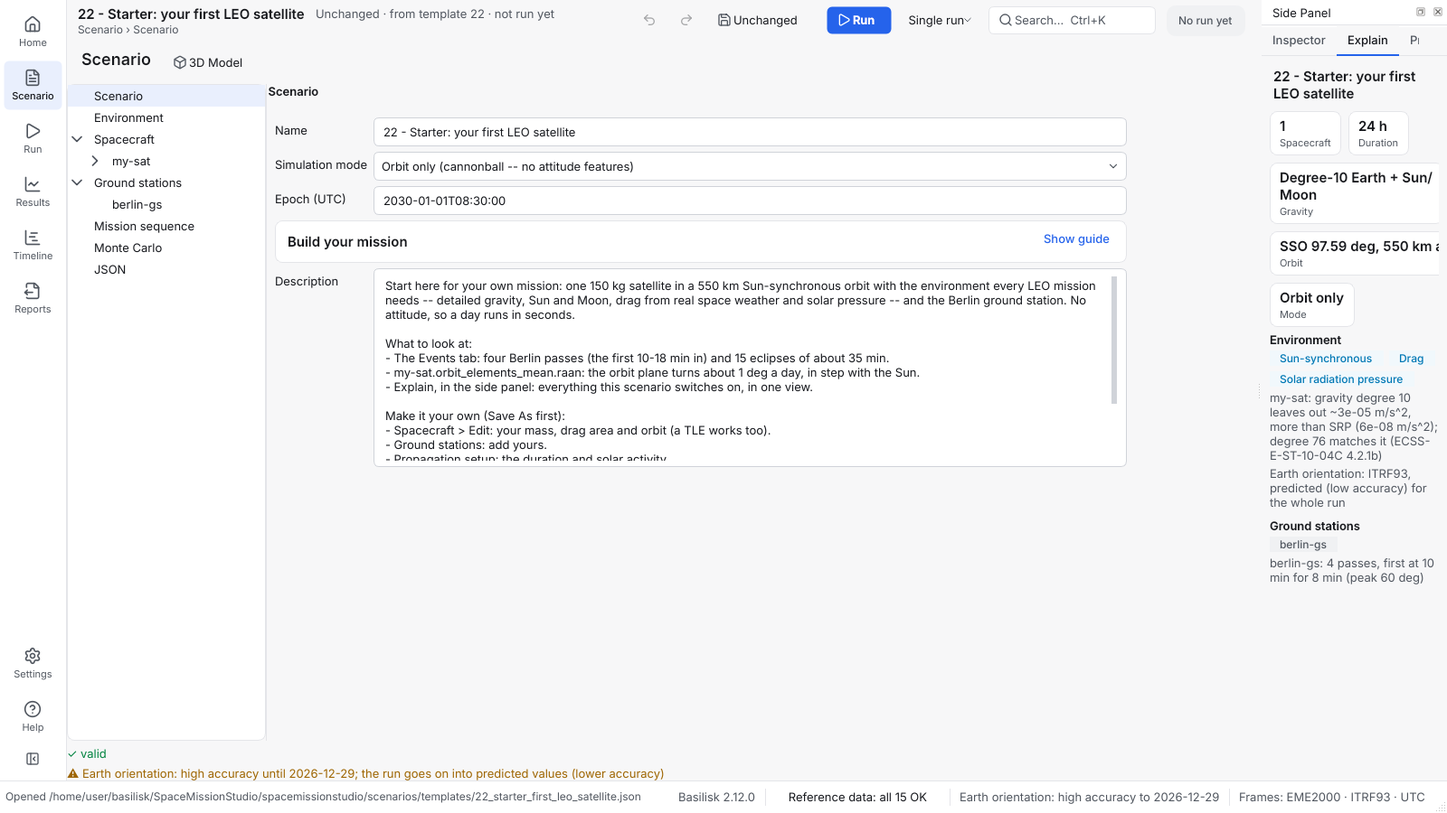
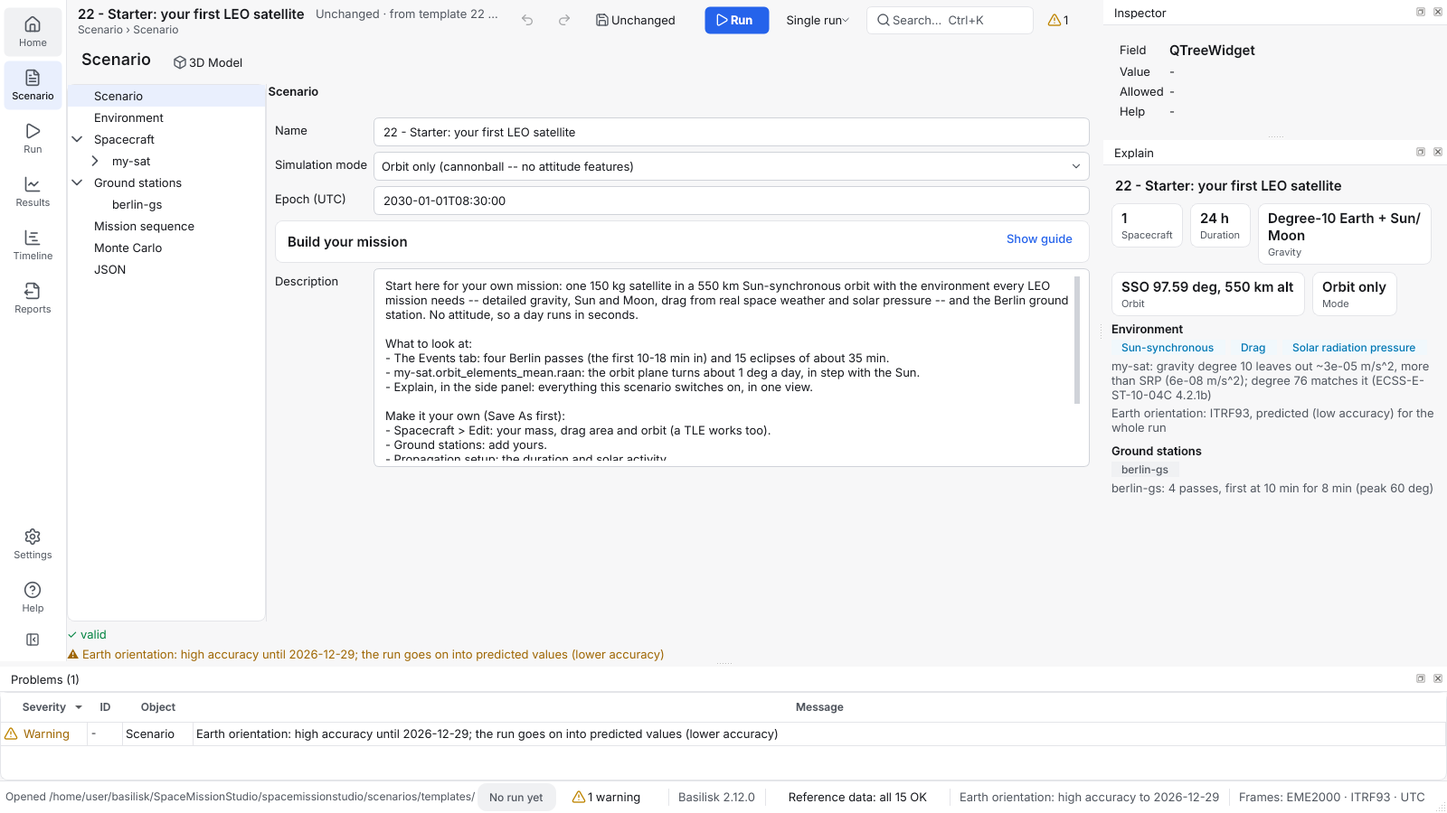
M2b: status bar fits a run at 1280 px; wheel test walks the areas
The run job asks the status bar for a new layout when its text grows,
the chip hides while the job shows, and the Earth orientation and frames
entries elide with their full text as the tooltip. The inspector's
default height is four rows. The main window's wheel test walks every
rail area, as the input-border test does. Docs screenshots recaptured.

Claude-Session: https://claude.ai/code/session_01R2b8C2dRToAzRYMx3CVWVd

diff --git a/SpaceMissionStudio/spacemissionstudio/gui/app_shell.py b/SpaceMissionStudio/spacemissionstudio/gui/app_shell.py
@@ -46,8 +46,8 @@ from typing import List, Optional
 
 from PySide6.QtCore import QElapsedTimer, QSize, Qt, QTimer, Signal
 from PySide6.QtGui import QAction, QPainter
-from PySide6.QtWidgets import (QFrame, QHBoxLayout, QLabel, QProgressBar, QPushButton, QToolButton, QVBoxLayout,
-                               QWidget)
+from PySide6.QtWidgets import (QFrame, QHBoxLayout, QLabel, QProgressBar, QPushButton, QSizePolicy, QToolButton,
+                               QVBoxLayout, QWidget)
 
 from .theme import icon
 from .theme.icons import keep_icon
@@ -117,16 +117,19 @@ class RunProgressStrip(QFrame):
     def __init__(self, parent: Optional[QWidget] = None) -> None:
         super().__init__(parent)
         self.setObjectName("runProgressStrip")
+        # Its own width in the status bar: the entries that elide give way.
+        self.setSizePolicy(QSizePolicy.Policy.Fixed, QSizePolicy.Policy.Preferred)
         layout = QHBoxLayout(self)
         layout.setContentsMargins(4, 0, 4, 0)  # [px]
         layout.setSpacing(8)  # [px]
         # In the status bar beside its other items: the phase gives way first.
         self.phase_label = ElidedLabel()
         self.phase_label.setObjectName("runPhase")
+        self.phase_label.setMinimumWidth(80)  # [px] never squeezed out of sight
         self.phase_label.setMaximumWidth(320)  # [px]
         self.bar = QProgressBar()
         self.bar.setTextVisible(False)  # the percentage is in the time label and the status chip
-        self.bar.setFixedWidth(120)  # [px]
+        self.bar.setFixedWidth(96)  # [px]
         self.time_label = QLabel()
         self.time_label.setObjectName("runTime")
         self.cancel_button = QPushButton("Cancel (Esc)")
@@ -140,6 +143,7 @@ class RunProgressStrip(QFrame):
         self._timer = QTimer(self)
         self._timer.setInterval(500)  # [ms]
         self._timer.timeout.connect(self.refresh_time)
+        self._fitted_width = 0
         self.hide()
 
     def start(self, phase: str, cancellable: bool = True, cancel_note: str = "") -> None:
@@ -154,9 +158,11 @@ class RunProgressStrip(QFrame):
         self.refresh_time()
         self._timer.start()
         self.show()
+        self._fit()
 
     def set_phase(self, text: str) -> None:
         self.phase_label.setText(text)
+        self._fit()
 
     def set_fraction(self, fraction: float) -> None:
         fraction = min(max(float(fraction), 0.0), 1.0)
@@ -170,6 +176,7 @@ class RunProgressStrip(QFrame):
         """Cancel was asked for: it takes effect at the next checkpoint."""
         self.cancel_button.setEnabled(False)
         self.cancel_button.setText("Cancelling...")
+        self._fit()
 
     def finish(self) -> None:
         self._timer.stop()
@@ -193,6 +200,18 @@ class RunProgressStrip(QFrame):
         if remaining is not None and remaining >= 1.0:  # [s] under a second, "about 0:00 left" says nothing
             parts.append(f"about {clock_text(remaining)} left")
         self.time_label.setText(" · ".join(parts))
+        self._fit()
+
+    def _fit(self) -> None:
+        """Take the width the text needs now: the status bar lays its
+        entries out again only when asked."""
+        width = self.sizeHint().width()
+        if width != self._fitted_width and self.parentWidget() is not None:
+            self._fitted_width = width
+            self.updateGeometry()
+            layout = self.parentWidget().layout()
+            if layout is not None:
+                layout.invalidate()
 
 
 class TopBar(QWidget):
@@ -338,12 +357,14 @@ class StatusBarItems:
         self.data_button.setObjectName("statusDataButton")
         self.data_button.setAutoRaise(True)
         self.data_button.setToolTip("Reference data: open the Reference data dialog")
-        self.earth_orientation_label = QLabel(parent)
+        # The two longest entries give way while a run's job shares the bar;
+        # their tooltips have all of it.
+        self.earth_orientation_label = ElidedLabel(parent)
         self.earth_orientation_label.setObjectName("statusItem")
-        self.frames_label = QLabel(parent)
+        self.earth_orientation_label.setMinimumWidth(120)  # [px]
+        self.frames_label = ElidedLabel(parent)
         self.frames_label.setObjectName("statusItem")
-        self.frames_label.setToolTip("Inertial frame of orbits and results; Earth-fixed frame of ground "
-                                     "stations; the time system of every date shown")
+        self.frames_label.setMinimumWidth(120)  # [px]
         items = (self.problems_button, self.basilisk_label, self.data_button, self.earth_orientation_label,
                  self.frames_label)
         # A thin rule between entries: side by side they read as one line.
@@ -396,6 +417,11 @@ class StatusBarItems:
             self.earth_orientation_label.setText("Earth orientation: installed")
         earth_fixed = earth_orientation.EARTH_FIXED_FRAME if kernels else earth_orientation.FALLBACK_EARTH_FRAME
         self.frames_label.setText(f"Frames: EME2000 · {earth_fixed} · UTC")
+        self.frames_label.setToolTip(f"{self.frames_label.text()}\n{_FRAMES_TIP}")
+
+
+_FRAMES_TIP = ("Inertial frame of orbits and results; Earth-fixed frame of ground stations; the time system "
+               "of every date shown")
 
 
 def _problems_button(name: str, parent: Optional[QWidget] = None) -> QToolButton:

diff --git a/SpaceMissionStudio/tests/gui/test_panels.py b/SpaceMissionStudio/tests/gui/test_panels.py
@@ -171,11 +171,36 @@ def test_a_run_is_a_job_in_the_status_bar_with_progress_and_cancel(window):
     assert progress.isVisibleTo(window) and progress.bar.value() == 43
     assert progress.phase_label.text() == "Propagating: day 0.4 of 1"
     assert window.run_chip.text() == "Running 43 %"
+    assert not window.run_chip.isVisibleTo(window)  # the job says the same, with its bar
     assert progress.cancel_button.isVisibleTo(window)
     progress.cancel_button.click()
     assert cancelled == [True]
     window._stop_busy("Done", "done", "Done")
     assert not progress.isVisibleTo(window) and window.run_chip.state == "done"
+    assert window.run_chip.isVisibleTo(window)
+
+
+def test_the_status_bar_job_fits_a_1280_px_window(window, qapp):
+    """At 1280 px, with the longest time text, the job's time and Cancel get
+    all the width they need: the long entries elide instead (their tooltips
+    keep the whole text). The status bar lays the job out again as its text
+    grows."""
+    window.resize(1280, 720)  # [px]
+    window.show()
+    window._start_busy("Running", determinate=True)
+    progress = window.run_progress
+    progress.set_phase("Propagating: day 0.4 of 1")
+    progress.set_fraction(0.8)
+    progress.elapsed_s = lambda: 40.0  # [s]
+    progress.refresh_time()
+    qapp.processEvents()
+    assert progress.time_label.text() == "80 % · 0:40 elapsed · about 0:09 left"
+    assert progress.time_label.width() >= progress.time_label.sizeHint().width()
+    assert progress.cancel_button.width() >= progress.cancel_button.sizeHint().width()
+    assert progress.phase_label.width() >= 80  # [px]
+    items = window.status_items
+    assert items.frames_label.toolTip().startswith(items.frames_label.text())
+    window._stop_busy("Done")
 
 
 def test_the_status_bar_job_does_not_widen_the_window(window):

diff --git a/SpaceMissionStudio/tests/gui/test_wheel_in_dialogs.py b/SpaceMissionStudio/tests/gui/test_wheel_in_dialogs.py
@@ -101,12 +101,24 @@ def test_mouse_wheel_changes_nothing(qtbot, qapp, factory):
     dialog.show()
     qtbot.waitExposed(dialog)
     changed, count = _changed_by_wheel(dialog, qapp)
-    for tabs in _expand_everything(dialog, qapp):
-        for index in range(tabs.count()):
-            tabs.setCurrentIndex(index)
+    tab_widgets = _expand_everything(dialog, qapp)
+    # The main window: every area of its rail, as its main tabs were walked.
+    areas = [area.id for area in dialog.shell.page_areas()] if hasattr(dialog, "shell") else [None]
+    for area in areas:
+        if area is not None:
+            dialog.shell.show_area(area)
             qapp.processEvents()
             more, more_count = _changed_by_wheel(dialog, qapp)
-            changed += [f"[{tabs.tabText(index)}] {item}" for item in more]
+            changed += [f"[{area}] {item}" for item in more]
             count += more_count
+        for tabs in tab_widgets:
+            if not shiboken6.isValid(tabs) or not tabs.isVisible():
+                continue
+            for index in range(tabs.count()):
+                tabs.setCurrentIndex(index)
+                qapp.processEvents()
+                more, more_count = _changed_by_wheel(dialog, qapp)
+                changed += [f"[{tabs.tabText(index)}] {item}" for item in more]
+                count += more_count
     assert count > 0, "nothing to wheel over -- the check would pass vacuously"
     assert not changed, "the wheel changed:\n" + "\n".join(changed)

diff --git a/SpaceMissionStudio/spacemissionstudio/gui/main_window.py b/SpaceMissionStudio/spacemissionstudio/gui/main_window.py
@@ -383,7 +383,7 @@ class MainWindow(QMainWindow):
         self._build_actions()
         self._build_areas()
         self.resizeDocks([self.side_dock], [380], Qt.Orientation.Horizontal)  # [px] room for Explain's tiles
-        self.resizeDocks([self.side_dock, self.explain_dock], [180, 460], Qt.Orientation.Vertical)  # [px]
+        self.resizeDocks([self.side_dock, self.explain_dock], [130, 610], Qt.Orientation.Vertical)  # [px] four rows
         self.resizeDocks([self.problems_dock], [140], Qt.Orientation.Vertical)  # [px] about four rows
         self._default_layout = self.saveState(_LAYOUT_VERSION)
         self._restore_layout()
@@ -1575,6 +1575,7 @@ class MainWindow(QMainWindow):
         self._busy_timer.start()
         self._run_started_s = time.monotonic()
         self.run_chip.set_state("running", "Running")
+        self.run_chip.hide()  # the job beside it says the same, with its bar
         self.statusBar().showMessage(message)
 
     def _stop_busy(self, message: str, chip_state: str = "idle", chip_text: str = "Ready",
@@ -1594,6 +1595,7 @@ class MainWindow(QMainWindow):
                                           f"{time.strftime('%H:%M')}, {chip_state}, {_duration_text(seconds)}")
             self._run_started_s = None
         self.run_chip.set_state(chip_state, chip_text)
+        self.run_chip.show()
         self._set_running(False)
         self.abort_action.setEnabled(False)
         self._busy_timer.stop()

diff --git a/SpaceMissionStudio/compliance/docs/SDD_components.md b/SpaceMissionStudio/compliance/docs/SDD_components.md
@@ -77,7 +77,7 @@ Identifiers are module paths: `engine/service` is `spacemissionstudio/engine/ser
 | `fsw_export/traceability` | Where each exported value comes from | SRS-F-18 | `Source`, `module_field_source` | - | - | 95 |
 | `gui/actions` | The main window's action registry, every command in one place (UI overhaul plan §5.1). | - | `Command`, `tooltip_text`, `ActionRegistry` | - | PySide6 | 169 |
 | `gui/app` | GUI entry point. | SRS-F-15 | `main` | gui/icons, gui/main_window, gui/theme, logging_setup | PySide6 | 77 |
-| `gui/app_shell` | The app shell's always-visible state (UX/UI Standard, "State is always visible" and "Target layout"; docs/ux-audit.md U-04, U-06, U-07) | - | `StatusChip`, `clock_text`, `ElidedLabel`, `RunProgressStrip`, `TopBar`, `source_of`, `StatusBarItems` | dependencies, engine/earth_orientation, engine/reference_data, gui/theme, gui/theme/icons | PySide6 | 438 |
+| `gui/app_shell` | The app shell's always-visible state (UX/UI Standard, "State is always visible" and "Target layout"; docs/ux-audit.md U-04, U-06, U-07) | - | `StatusChip`, `clock_text`, `ElidedLabel`, `RunProgressStrip`, `TopBar`, `source_of`, `StatusBarItems` | dependencies, engine/earth_orientation, engine/reference_data, gui/theme, gui/theme/icons | PySide6 | 464 |
 | `gui/autosave` | Autosave / crash-recovery for in-progress scenario edits. | SRS-RE-02 | `RecoveryInfo`, `write_recovery_file`, `clear_recovery_file`, `read_recovery_file` | schema/migrations, schema/scenario | - | 174 |
 | `gui/badges` | Status badges | - | `set_badge` | gui/theme | PySide6 | 45 |
 | `gui/budget_widget` | Delta-V and propellant budget in the manner of ESA's AD10 guideline (EOP-FM/2024-07-177; see engine/propellant_budget.py) | SRS-F-15 | `BudgetInputsGroup`, `BudgetWidget` | engine/propellant_budget, gui/theme, gui/widgets, output_provenance, schema/scenario | PySide6 | 591 |
@@ -99,7 +99,7 @@ Identifiers are module paths: `engine/service` is `spacemissionstudio/engine/ser
 | `gui/json_view` | The scenario as JSON, editable (docs/ux-audit.md U-16) | - | `ScenarioJsonView` | gui/feedback, gui/theme, schema/scenario | PySide6 | 149 |
 | `gui/lifetime_widget` | The "End of life" tab | SRS-F-15 | `AltitudeChart`, `LifetimeWidget` | engine/lifetime, gui/badges, gui/scenario_explainer_widget, gui/theme, gui/widgets | PySide6 | 381 |
 | `gui/load_scenario_widget` | LoadScenarioWidget | SRS-O-02, SRS-H-02 | `description_html`, `LoadScenarioWidget` | gui/feedback, gui/mission_guide, gui/template_wizard, gui/theme, gui/theme/richtext | PySide6 | 354 |
-| `gui/main_window` | MainWindow | SRS-F-15, SRS-O-02, SRS-S-03 | `events_summary`, `MainWindow` | engine/events, engine/monte_carlo_results, engine/run_store, engine/series_names, engine/vizard, gui/actions, gui/app_shell, gui/autosave, gui/budget_widget, gui/command_palette, gui/compare_widget, gui/data_panel_widget, gui/event_timeline_widget, gui/feedback, gui/fsw_workbench_widget, gui/help_dialog, gui/icons, gui/lifetime_widget, gui/load_scenario_widget, gui/mission_dashboard_widget, gui/mission_guide, gui/mission_output_widget, gui/monte_carlo_results_widget, gui/problem_location, gui/results_widget, gui/run_history, gui/run_worker, gui/scenario_editor, gui/scenario_explainer_widget, gui/settings_page, gui/shell, gui/startup_fetch_dialog, gui/theme, gui/theme/icons, gui/time_cursor, gui/undo_history, gui/vizard_dialog, gui/vizard_launcher, gui/widgets, gui/workspace_panels, logging_setup, output_provenance, schema/command, schema/scenario | PySide6 | 2358 |
+| `gui/main_window` | MainWindow | SRS-F-15, SRS-O-02, SRS-S-03 | `events_summary`, `MainWindow` | engine/events, engine/monte_carlo_results, engine/run_store, engine/series_names, engine/vizard, gui/actions, gui/app_shell, gui/autosave, gui/budget_widget, gui/command_palette, gui/compare_widget, gui/data_panel_widget, gui/event_timeline_widget, gui/feedback, gui/fsw_workbench_widget, gui/help_dialog, gui/icons, gui/lifetime_widget, gui/load_scenario_widget, gui/mission_dashboard_widget, gui/mission_guide, gui/mission_output_widget, gui/monte_carlo_results_widget, gui/problem_location, gui/results_widget, gui/run_history, gui/run_worker, gui/scenario_editor, gui/scenario_explainer_widget, gui/settings_page, gui/shell, gui/startup_fetch_dialog, gui/theme, gui/theme/icons, gui/time_cursor, gui/undo_history, gui/vizard_dialog, gui/vizard_launcher, gui/widgets, gui/workspace_panels, logging_setup, output_provenance, schema/command, schema/scenario | PySide6 | 2360 |
 | `gui/mission_dashboard_widget` | MissionDashboardWidget | SRS-F-15 | `MissionDashboardWidget` | engine/link_budget, engine/results, gui/badges, gui/theme, schema/scenario | PySide6, numpy | 462 |
 | `gui/mission_guide` | Starting a mission from scratch without feeling lost (the user's request of 2026-10-21 | - | `StartFromScratchCard`, `MissionGuide` | gui/theme | PySide6 | 220 |
 | `gui/mission_output_widget` | MissionOutputWidget | SRS-F-15 | `MissionOutputWidget` | engine/results, gui/feedback, gui/theme, gui/theme/items, output_provenance, plot_categories | PySide6, numpy | 386 |

diff --git a/SpaceMissionStudio/compliance/docs/SUITP_test_cases.md b/SpaceMissionStudio/compliance/docs/SUITP_test_cases.md
@@ -4,7 +4,7 @@ Generated by `compliance/tools/build_test_specs.py` from the test sources (read 
 
 Levels: *unit* runs without Basilisk or Qt; *integration* runs a Basilisk simulation or the Qt GUI (offscreen).
 
-**2380 test functions in 193 test designs** (1391 integration, 989 unit). 2380 have a docstring stating their purpose; 0 do not (their purpose is their name). 114 name the requirements they verify with a `requirement` marker; the others trace through the SRS validation matrix (SRS section 6).
+**2381 test functions in 193 test designs** (1392 integration, 989 unit). 2381 have a docstring stating their purpose; 0 do not (their purpose is their name). 114 name the requirements they verify with a `requirement` marker; the others trace through the SRS validation matrix (SRS section 6).
 
 ## Test designs
 
@@ -53,7 +53,7 @@ Levels: *unit* runs without Basilisk or Qt; *integration* runs a Basilisk simula
 | `tests/gui/test_orbit_switch.py` | Switching the orbit type (docs/ux-audit.md U-14): a segmented control; picking another type asks whether to convert the orbit (both sets shown) or use that page's own values, and Cancel keeps the orbit as it was. | 7 | integration | Qt (offscreen) |
 | `tests/gui/test_out_of_range.py` | A file's value outside a field's range is kept and said, never clamped silently; and a problem waiting in one form no longer hides the others. | 6 | integration | Qt (offscreen) |
 | `tests/gui/test_page_tree.py` | The tree of pages the Scenario Editor is built on (docs/ux-audit.md U-01): pages and groups, finding the page of any widget, problem counts, removal, and the edit watcher its live forms use. | 8 | integration | Qt (offscreen) |
-| `tests/gui/test_panels.py` | The panels of UI overhaul M2b: the Problems panel at the bottom (gui.workspace_panels), the run job in the status bar (gui.app_shell), the inspector on the right, the layout kept per project and a keyboard-only walk of t | 12 | integration | Qt (offscreen) |
+| `tests/gui/test_panels.py` | The panels of UI overhaul M2b: the Problems panel at the bottom (gui.workspace_panels), the run job in the status bar (gui.app_shell), the inspector on the right, the layout kept per project and a keyboard-only walk of t | 13 | integration | Qt (offscreen) |
 | `tests/gui/test_phasing_formation_dialog.py` | Tests for gui.phasing_formation_dialog.PhasingFormationDialog. | 15 | integration | Qt (offscreen) |
 | `tests/gui/test_plausibility_checks.py` | Plausibility checks while editing (UX/UI guidelines): a perigee below the surface, an inconsistent state, a run outside the installed data. | 5 | integration | Qt (offscreen) |
 | `tests/gui/test_plot_workspace.py` | The Results plot workspace (docs/ux-audit.md U-24 to U-30): the catalog, the grid with linked x axes, the readout, the orbit-number axis, event bands, the epoch subtitle, Export all and the layout kept per scenario. | 17 | integration | Qt (offscreen) |
@@ -863,6 +863,7 @@ Levels: *unit* runs without Basilisk or Qt; *integration* runs a Basilisk simula
 | `test_a_refused_run_opens_a_hidden_problems_panel` | Run on an invalid scenario shows the Problems panel, even when it was hidden, and goes to the field. | - | integration |
 | `test_enter_in_the_problems_table_goes_to_the_field` | Keyboard only: Ctrl+J into the panel, the arrow keys to a row, Enter to the field it is about. | - | integration |
 | `test_a_run_is_a_job_in_the_status_bar_with_progress_and_cancel` | While a run goes, the status bar shows its phase, progress, time and Cancel, and the chip its state; the job leaves when the run ends. | - | integration |
+| `test_the_status_bar_job_fits_a_1280_px_window` | At 1280 px, with the longest time text, the job's time and Cancel get all the width they need: the long entries elide instead (their tooltips keep the whole text). | - | integration |
 | `test_the_status_bar_job_does_not_widen_the_window` | A long phase ends in "..." rather than holding the window wider. | - | integration |
 | `test_the_inspector_and_explain_are_panels_on_the_right_without_tabs` | Inspector over Explain, each its own panel on the right; the Problems panel at the bottom. | - | integration |
 | `test_ctrl_i_shows_and_hides_the_inspector` | Ctrl+I, pressed in the window, hides the Inspector and shows it again. | - | integration |

diff --git a/SpaceMissionStudio/docs/ui/TEST_CHANGES.md b/SpaceMissionStudio/docs/ui/TEST_CHANGES.md
@@ -128,7 +128,7 @@ below reaches the same behaviour there.
 
 | Test | Before | Now | Assertions kept |
 |---|---|---|---|
-| `test_field_errors.py::_activate_error` (5 tests use it) | `problems.list.itemActivated.emit(problems.list.item(row))` | `problems.table.activated.emit(problems.index_of(row))` | The error's row opens its field |
+| `test_field_errors.py::_activate_error` (4 tests use it) | `problems.list.itemActivated.emit(problems.list.item(row))` | `problems.table.activated.emit(problems.index_of(row))` | The error's row opens its field |
 | `test_field_errors.py::test_an_invalid_epoch_is_marked_at_its_field` | `problems_widget.list.item(0).text()` | `problems_widget.row_text(0)` ("Error: " and the message, as the list item read) | The first row is the epoch's error |
 | `test_json_view.py::test_problems_open_the_json_page`, `test_mission_sequence_list.py::test_problems_open_the_step` | `problems.list.itemActivated.emit(problems.list.item(row))` | `problems.table.activated.emit(problems.index_of(row))` | The row opens the JSON page; the step |
 | `test_workspace.py::test_problems_list_the_validation_error_and_warnings` | The side tab's text; `list.count()`, `list.item(0).text()`, `list.itemActivated` | The dock's title; `proxy.rowCount()`, `row_text(0)`, `table.activated` | "Problems (n)"; one row per problem, the error first; it opens the editor |
@@ -141,6 +141,7 @@ below reaches the same behaviour there.
 | `test_main_window.py::test_save_with_invalid_scenario_shows_error_and_does_not_write`, `test_run_with_invalid_scenario_shows_error_without_starting_worker`, `test_run_messages.py::test_an_invalid_scenario_opens_problems_at_the_field` | Problems is the side tab shown | The Problems dock is visible. It is shown in a new window, so `test_panels.py::test_a_refused_run_opens_a_hidden_problems_panel` checks that a hidden one opens | The problem is reported once and Problems opens |
 | `test_run_messages.py::test_a_finished_run_says_its_name_length_and_events`, `test_a_failed_run_opens_the_log_at_its_errors`; `test_app_shell.py::test_the_chip_follows_a_finished_run`, `test_the_chip_shows_a_live_run_percentage`, `test_the_chip_shows_failed_and_cancelled_runs` | `window.top_bar.chip` | `window.run_chip` (in the status bar) | Every state and text of the chip |
 | `test_shell_reachability.py`: the rows "View › Side Panel, Inspector, Explain, Problems", "Title bar (…, run state chip)", "Run progress strip", "Side **Problems**", and `_side` | The commands; the chip in the top bar; the strip above the areas; the side tab shown | The Inspector and Problems commands toggle their docks with `Ctrl+I` and `Ctrl+J`; the chip, the run job and the problem count are in the status bar; `_side` hides a panel and checks `show_view` shows it again | Every §5.2 row is reachable (74 rows) |
+| `test_wheel_in_dialogs.py::test_mouse_wheel_changes_nothing[main-window]` | Wheeled over the window as shown (Home), then every tab widget | Also walks the rail's areas, as `test_input_borders.py` does since M2a; tab widgets not shown are skipped | The wheel changes no box, drop-down or tab. Before, Home's only target was the side tabs' bar, so without it the test failed its "nothing to wheel over" guard |
 
 ### Wording only
 
@@ -149,7 +150,7 @@ below reaches the same behaviour there.
 
 ### Added
 
-- `tests/gui/test_panels.py` (12 tests):
+- `tests/gui/test_panels.py` (13 tests):
   - the Problems table: its columns, errors first, a heading sorting,
     the icon, Ctrl+C as TSV, the empty state;
   - the counts in the status bar and the top bar, and both opening the
@@ -157,7 +158,7 @@ below reaches the same behaviour there.
   - a refused run opening a hidden Problems panel;
   - Ctrl+J, the arrows and Enter reaching the field;
   - the run job in the status bar, with progress and Cancel, not widening
-    the window;
+    the window and fitting a 1280 px window;
   - the inspector's two docks and Ctrl+I;
   - the layout kept per project, and after the window closes;
   - a keyboard-only walk of the shell.

diff --git a/SpaceMissionStudio/docs/DECISIONS.md b/SpaceMissionStudio/docs/DECISIONS.md
@@ -83,10 +83,21 @@ The user: "start M2b here". M2b is the second half of M2 (above).
   dock's toggle after its title, so the command is named "Problems" again
   after each count.
 - **The run job and the chip are in the status bar,** before its other
-  items, where §5.1 puts the jobs. The strip got compact for it: the phase
-  elides at 320 px and the bar is 120 px wide, so a long phase does not
-  widen the window. One job at a time: Run is disabled while a run or a
-  Monte Carlo batch goes, so the "job list" has one entry.
+  items, where §5.1 puts the jobs. The chip is hidden while the job is
+  shown, because both said "Running 80 %"; afterwards it says how the run
+  ended. One job at a time: Run is disabled while a run or a Monte Carlo
+  batch goes, so the "job list" has one entry.
+- **The status bar fits 1280 px during a run:**
+  - the job's phase elides (80 to 320 px) and its bar is 96 px wide;
+  - the Earth orientation and frames entries elide down to 120 px, their
+    tooltips holding the whole text;
+  - the job asks the status bar to lay it out again when its text grows
+    (a `QStatusBar` does not notice on its own: the time was cut to
+    "0:02 elap" in the harness's run-in-progress screen).
+
+  Measured at 1280 px with the longest data text ("12 of 14 need
+  attention") and "80 % · 0:40 elapsed · about 0:09 left": nothing of the
+  job is cut.
 - **The inspector is two docks, Inspector over Explain,** not one dock
   with tabs. Each one is shown, hidden and sized on its own. Explain leaves
   for Scenario › Overview in M4.

diff --git a/SpaceMissionStudio/USER_MANUAL.md b/SpaceMissionStudio/USER_MANUAL.md
@@ -234,10 +234,9 @@ A few things to notice right away:
   kept for questions such as replacing a file.
 * The status bar at the bottom shows the run going on: what it is doing
   ("Propagating: day 0.4 of 1"), a progress bar, the time so far and an
-  estimate of the time left, and **Cancel (Esc)**. Beside it a tag with
-  the run state: **No run yet**, **Running** (with the percentage, or the
-  time so far), **Run 2: done in 6 s**, **Failed** or **Run 2:
-  cancelled**. It always shows the problems ("1 error · 2 warnings", or
+  estimate of the time left, and **Cancel (Esc)**. When no run is going,
+  a tag there says how the last one went: **No run yet**, **Run 2: done
+  in 6 s**, **Failed** or **Run 2: cancelled**. It always shows the problems ("1 error · 2 warnings", or
   "No problems"; click it to open **Problems**), the Basilisk
   version ("(not qualified)" when it is not the verified 2.12.0), the
   reference data ("all OK", or how many files need attention; click it

diff --git a/SpaceMissionStudio/spacemissionstudio/help/USER_MANUAL.md b/SpaceMissionStudio/spacemissionstudio/help/USER_MANUAL.md
@@ -234,10 +234,9 @@ A few things to notice right away:
   kept for questions such as replacing a file.
 * The status bar at the bottom shows the run going on: what it is doing
   ("Propagating: day 0.4 of 1"), a progress bar, the time so far and an
-  estimate of the time left, and **Cancel (Esc)**. Beside it a tag with
-  the run state: **No run yet**, **Running** (with the percentage, or the
-  time so far), **Run 2: done in 6 s**, **Failed** or **Run 2:
-  cancelled**. It always shows the problems ("1 error · 2 warnings", or
+  estimate of the time left, and **Cancel (Esc)**. When no run is going,
+  a tag there says how the last one went: **No run yet**, **Run 2: done
+  in 6 s**, **Failed** or **Run 2: cancelled**. It always shows the problems ("1 error · 2 warnings", or
   "No problems"; click it to open **Problems**), the Basilisk
   version ("(not qualified)" when it is not the verified 2.12.0), the
   reference data ("all OK", or how many files need attention; click it

diff --git a/SpaceMissionStudio/docs/DESIGN.md b/SpaceMissionStudio/docs/DESIGN.md
@@ -216,7 +216,7 @@ bar and no toolbar:
   double-click goes to the field. Its counts are on its title, in the
   status bar and the top bar.
 - **Status bar:** the run job (phase, progress, time so far and left,
-  Cancel) and the run state chip while a run goes; then the problem count
+  Cancel) while a run goes, the run state chip otherwise; then the problem count
   (it opens Problems), Basilisk version, reference data, Earth
   orientation data, frames.
 - **Layout memory:** Settings > Layout > Reset Layout restores the panels
